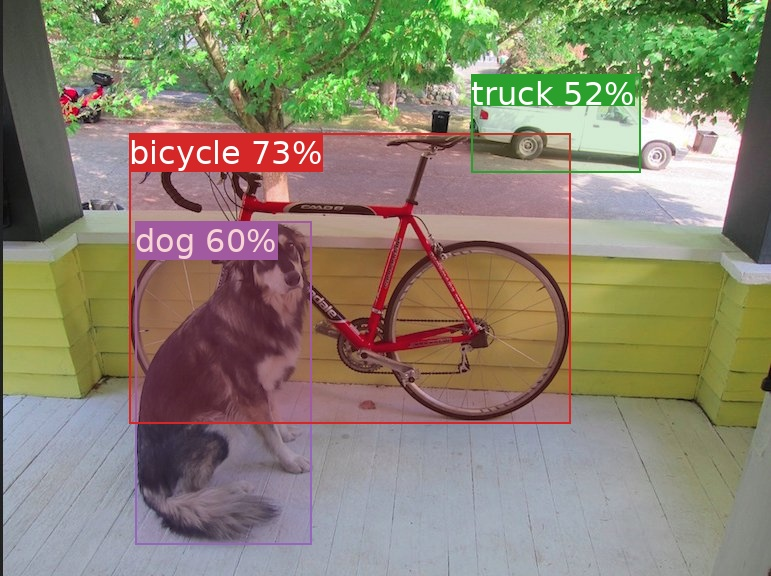
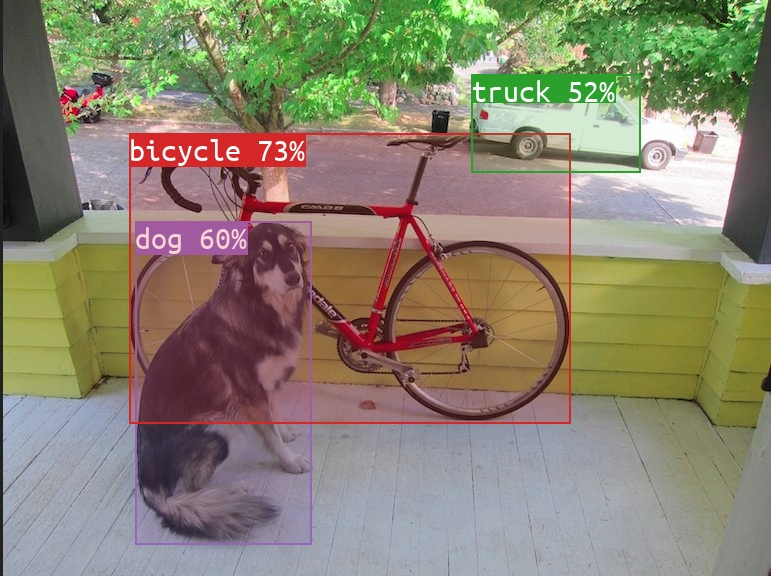
update

Changed region(s): [[0.1556, 0.2188, 0.4358, 0.3125], [0.1556, 0.375, 0.3735, 0.4688], [0.5914, 0.125, 0.8405, 0.1875]]

diff --git a/runtime_python/ex_27_YOLO_onnx.py b/runtime_python/ex_27_YOLO_onnx.py
@@ -123,14 +123,15 @@ def ex_onnx_detect(filename_onnx,filename_image):
     colors = [colors80[int(i)] for i in class_ids]
     image_res = tools_draw_numpy.draw_rects(image, rects.reshape((-1,2,2)), colors, labels=labels, w=2, alpha_transp=0.8)
     cv2.imwrite(folder_out + 'res_onnx.jpg', image_res)
+    print(folder_out + 'res_onnx.jpg')
     return
 # ----------------------------------------------------------------------------------------------------------------------
-def ex_happy_path():
+def ex_happy_path(filename_image):
     model_detect = YOLO('yolov8n.pt')
-    model_detect.predict('./data/ex_detector/dog_bicycle.jpg')
+    model_detect.predict(filename_image)
 
     model_detect = YOLO('yolov8.yaml')
-    model_detect.predict('./data/ex_detector/dog_bicycle.jpg')
+    model_detect.predict(filename_image)
 
     #model_detect.train(data='coco128.yaml', epochs=1, imgsz=640)
 
@@ -148,12 +149,13 @@ def ex_process_grayscaled():
 
     return
 # ----------------------------------------------------------------------------------------------------------------------
-
 if __name__ == '__main__':
 
-    ex_onnx_detect('yolov8n.onnx', './dog_bicycle.jpg')
-    #ex_happy_path()
-    #ex_process_grayscaled()
+    filename_image = './dog_bicycle.jpg'
+
+    ex_onnx_detect('yolov8n.onnx',filename_image )
+    ex_happy_path(filename_image)
+
 
 
 
